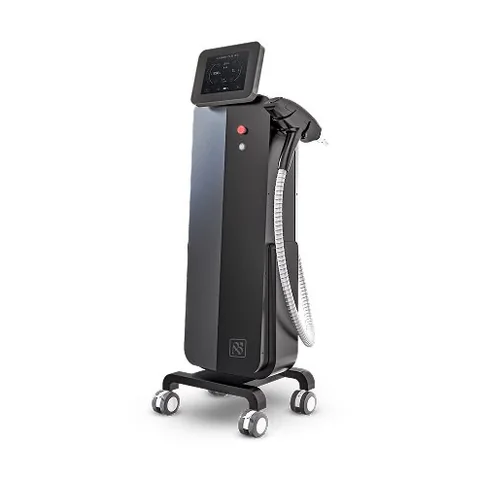
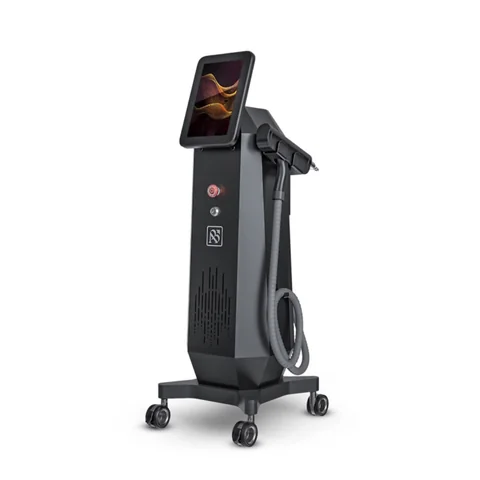
Poprawki Kariny z 30–31.10: galeria zdjęć produktu, SATELLITE w opakowaniach, laser, Glow Oil
- Okno produktu: galeria (kilka zdjęć z miniaturami; product-<id>-2, -3…).
  Drugie zdjęcie sztucznej skóry, nowe zdjęcia kartridży FLAT (pudełka i grafika
  igieł), 3 grafiki do Pigmentów Supernatural.
- Pędzel do brwi: warianty czarny / biały (zdjęcie zmienia się z wariantem).
- SATELLITE: tylko pełne opakowanie 20 szt. za 255 zł (Karina 31.10: „nie
  sprzedajemy kartridży na sztuki”).
- Laser: nowe zdjęcie i opis z 31.10, nazwa „Laser Q-Switch”.
- Glow Oil (3 zapachy): opisy i skład z podpisów zdjęć Kariny (PL/EN/RU).
- Zabiegi: 4. zdjęcie „Realne efekty” wymienione na zdjęcie od Kariny.
- Nowe zdjęcia w /Graphics (WhatsApp 30–31.10). Zakładka „Regulaminy” –
  po otrzymaniu dokumentów.

Changed region(s): [[0.2812, 0.0625, 0.6875, 0.9375]]

diff --git a/src/lib/media.js b/src/lib/media.js
@@ -156,8 +156,8 @@ export const PRODUCTS = {
   'product-doll-harley-quinn-6ml': { src: '/graphics/product-doll-harley-quinn-6ml.jpg', w: 1536, h: 1536, webp: { '480': '/graphics/product-doll-harley-quinn-6ml-480.webp', '960': '/graphics/product-doll-harley-quinn-6ml-960.webp', '1440': '/graphics/product-doll-harley-quinn-6ml-1440.webp', '1536': '/graphics/product-doll-harley-quinn-6ml.webp' } },
   'product-e5-dark-brown-6-ml-opium-light': { src: '/graphics/product-e5-dark-brown-6-ml-opium-light.jpg', w: 1536, h: 1536, webp: { '480': '/graphics/product-e5-dark-brown-6-ml-opium-light-480.webp', '960': '/graphics/product-e5-dark-brown-6-ml-opium-light-960.webp', '1440': '/graphics/product-e5-dark-brown-6-ml-opium-light-1440.webp', '1536': '/graphics/product-e5-dark-brown-6-ml-opium-light.webp' } },
   'product-glow-oil-coconut-chocolate': { src: '/graphics/product-glow-oil-coconut-chocolate.jpg', w: 1323, h: 1323, webp: { '480': '/graphics/product-glow-oil-coconut-chocolate-480.webp', '960': '/graphics/product-glow-oil-coconut-chocolate-960.webp', '1323': '/graphics/product-glow-oil-coconut-chocolate.webp' } },
-  'product-glow-oil-pineapple': { src: '/graphics/product-glow-oil-pineapple.jpg', w: 1292, h: 1292, webp: { '480': '/graphics/product-glow-oil-pineapple-480.webp', '960': '/graphics/product-glow-oil-pineapple-960.webp', '1292': '/graphics/product-glow-oil-pineapple.webp' } },
-  'product-glow-oil-strawberries': { src: '/graphics/product-glow-oil-strawberries.jpg', w: 1292, h: 1292, webp: { '480': '/graphics/product-glow-oil-strawberries-480.webp', '960': '/graphics/product-glow-oil-strawberries-960.webp', '1292': '/graphics/product-glow-oil-strawberries.webp' } },
+  'product-glow-oil-pineapple': { src: '/graphics/product-glow-oil-pineapple.jpg', w: 1326, h: 1326, webp: { '480': '/graphics/product-glow-oil-pineapple-480.webp', '960': '/graphics/product-glow-oil-pineapple-960.webp', '1326': '/graphics/product-glow-oil-pineapple.webp' } },
+  'product-glow-oil-strawberries': { src: '/graphics/product-glow-oil-strawberries.jpg', w: 1323, h: 1323, webp: { '480': '/graphics/product-glow-oil-strawberries-480.webp', '960': '/graphics/product-glow-oil-strawberries-960.webp', '1323': '/graphics/product-glow-oil-strawberries.webp' } },
   'product-gotham-harley-quinn-6ml': { src: '/graphics/product-gotham-harley-quinn-6ml.jpg', w: 1536, h: 1536, webp: { '480': '/graphics/product-gotham-harley-quinn-6ml-480.webp', '960': '/graphics/product-gotham-harley-quinn-6ml-960.webp', '1440': '/graphics/product-gotham-harley-quinn-6ml-1440.webp', '1536': '/graphics/product-gotham-harley-quinn-6ml.webp' } },
   'product-h7-dark-warm-brown-eyebrow-pigment-for-hair-strokes': { src: '/graphics/product-h7-dark-warm-brown-eyebrow-pigment-for-hair-strokes.jpg', w: 1536, h: 1536, webp: { '480': '/graphics/product-h7-dark-warm-brown-eyebrow-pigment-for-hair-strokes-480.webp', '960': '/graphics/product-h7-dark-warm-brown-eyebrow-pigment-for-hair-strokes-960.webp', '1440': '/graphics/product-h7-dark-warm-brown-eyebrow-pigment-for-hair-strokes-1440.webp', '1536': '/graphics/product-h7-dark-warm-brown-eyebrow-pigment-for-hair-strokes.webp' } },
   'product-hairstrokes-h6-dark-brown': { src: '/graphics/product-hairstrokes-h6-dark-brown.jpg', w: 1536, h: 1536, webp: { '480': '/graphics/product-hairstrokes-h6-dark-brown-480.webp', '960': '/graphics/product-hairstrokes-h6-dark-brown-960.webp', '1440': '/graphics/product-hairstrokes-h6-dark-brown-1440.webp', '1536': '/graphics/product-hairstrokes-h6-dark-brown.webp' } },
@@ -166,20 +166,26 @@ export const PRODUCTS = {
   'product-ice-gel-lips': { src: '/graphics/product-ice-gel-lips.jpg', w: 1536, h: 1536, webp: { '480': '/graphics/product-ice-gel-lips-480.webp', '960': '/graphics/product-ice-gel-lips-960.webp', '1440': '/graphics/product-ice-gel-lips-1440.webp', '1536': '/graphics/product-ice-gel-lips.webp' } },
   'product-ice-ltb-gel': { src: '/graphics/product-ice-ltb-gel.jpg', w: 1054, h: 1054, webp: { '480': '/graphics/product-ice-ltb-gel-480.webp', '960': '/graphics/product-ice-ltb-gel-960.webp', '1054': '/graphics/product-ice-ltb-gel.webp' } },
   'product-joker-harley-quinn-6ml': { src: '/graphics/product-joker-harley-quinn-6ml.jpg', w: 1536, h: 1536, webp: { '480': '/graphics/product-joker-harley-quinn-6ml-480.webp', '960': '/graphics/product-joker-harley-quinn-6ml-960.webp', '1440': '/graphics/product-joker-harley-quinn-6ml-1440.webp', '1536': '/graphics/product-joker-harley-quinn-6ml.webp' } },
-  'product-kartridze-flat-supernatural': { src: '/graphics/product-kartridze-flat-supernatural.jpg', w: 930, h: 930, webp: { '480': '/graphics/product-kartridze-flat-supernatural-480.webp', '930': '/graphics/product-kartridze-flat-supernatural.webp' } },
+  'product-kartridze-flat-supernatural': { src: '/graphics/product-kartridze-flat-supernatural.jpg', w: 1291, h: 1291, webp: { '480': '/graphics/product-kartridze-flat-supernatural-480.webp', '960': '/graphics/product-kartridze-flat-supernatural-960.webp', '1291': '/graphics/product-kartridze-flat-supernatural.webp' } },
+  'product-kartridze-flat-supernatural-2': { src: '/graphics/product-kartridze-flat-supernatural-2.jpg', w: 1024, h: 768, webp: { '480': '/graphics/product-kartridze-flat-supernatural-2-480.webp', '960': '/graphics/product-kartridze-flat-supernatural-2-960.webp', '1024': '/graphics/product-kartridze-flat-supernatural-2.webp' } },
   'product-kartridze-satellite': { src: '/graphics/product-kartridze-satellite.jpg', w: 1143, h: 1297, webp: { '480': '/graphics/product-kartridze-satellite-480.webp', '960': '/graphics/product-kartridze-satellite-960.webp', '1143': '/graphics/product-kartridze-satellite.webp' } },
   'product-kredka-brazowa': { src: '/graphics/product-kredka-brazowa.jpg', w: 320, h: 860, webp: { '320': '/graphics/product-kredka-brazowa.webp', '480': '/graphics/product-kredka-brazowa-480.webp' } },
   'product-kredka-czarna': { src: '/graphics/product-kredka-czarna.jpg', w: 408, h: 860, webp: { '408': '/graphics/product-kredka-czarna.webp', '480': '/graphics/product-kredka-czarna-480.webp' } },
   'product-kredka-czerwona': { src: '/graphics/product-kredka-czerwona.jpg', w: 320, h: 860, webp: { '320': '/graphics/product-kredka-czerwona.webp', '480': '/graphics/product-kredka-czerwona-480.webp' } },
   'product-lampa-pierscieniowa': { src: '/graphics/product-lampa-pierscieniowa.jpg', w: 1372, h: 1920, webp: { '480': '/graphics/product-lampa-pierscieniowa-480.webp', '960': '/graphics/product-lampa-pierscieniowa-960.webp', '1372': '/graphics/product-lampa-pierscieniowa.webp' } },
-  'product-laser-q-switch-ultra': { src: '/graphics/product-laser-q-switch-ultra.jpg', w: 494, h: 494, webp: { '480': '/graphics/product-laser-q-switch-ultra-480.webp', '494': '/graphics/product-laser-q-switch-ultra.webp' } },
+  'product-laser-q-switch-ultra': { src: '/graphics/product-laser-q-switch-ultra.jpg', w: 1008, h: 1008, webp: { '480': '/graphics/product-laser-q-switch-ultra-480.webp', '960': '/graphics/product-laser-q-switch-ultra-960.webp', '1008': '/graphics/product-laser-q-switch-ultra.webp' } },
   'product-maria-magdalena-6-ml-paradise': { src: '/graphics/product-maria-magdalena-6-ml-paradise.jpg', w: 1280, h: 1280, webp: { '480': '/graphics/product-maria-magdalena-6-ml-paradise-480.webp', '960': '/graphics/product-maria-magdalena-6-ml-paradise-960.webp', '1280': '/graphics/product-maria-magdalena-6-ml-paradise.webp' } },
   'product-pedzel-do-brwi': { src: '/graphics/product-pedzel-do-brwi.jpg', w: 1158, h: 1158, webp: { '480': '/graphics/product-pedzel-do-brwi-480.webp', '960': '/graphics/product-pedzel-do-brwi-960.webp', '1158': '/graphics/product-pedzel-do-brwi.webp' } },
+  'product-pedzel-do-brwi-2': { src: '/graphics/product-pedzel-do-brwi-2.jpg', w: 939, h: 939, webp: { '480': '/graphics/product-pedzel-do-brwi-2-480.webp', '939': '/graphics/product-pedzel-do-brwi-2.webp' } },
   'product-pigmenty-supernatural': { src: '/graphics/product-pigmenty-supernatural.jpg', w: 1713, h: 1713, webp: { '480': '/graphics/product-pigmenty-supernatural-480.webp', '960': '/graphics/product-pigmenty-supernatural-960.webp', '1440': '/graphics/product-pigmenty-supernatural-1440.webp', '1713': '/graphics/product-pigmenty-supernatural.webp' } },
+  'product-pigmenty-supernatural-2': { src: '/graphics/product-pigmenty-supernatural-2.jpg', w: 1600, h: 1131, webp: { '480': '/graphics/product-pigmenty-supernatural-2-480.webp', '960': '/graphics/product-pigmenty-supernatural-2-960.webp', '1440': '/graphics/product-pigmenty-supernatural-2-1440.webp', '1600': '/graphics/product-pigmenty-supernatural-2.webp' } },
+  'product-pigmenty-supernatural-3': { src: '/graphics/product-pigmenty-supernatural-3.jpg', w: 1600, h: 1131, webp: { '480': '/graphics/product-pigmenty-supernatural-3-480.webp', '960': '/graphics/product-pigmenty-supernatural-3-960.webp', '1440': '/graphics/product-pigmenty-supernatural-3-1440.webp', '1600': '/graphics/product-pigmenty-supernatural-3.webp' } },
+  'product-pigmenty-supernatural-4': { src: '/graphics/product-pigmenty-supernatural-4.jpg', w: 1600, h: 1131, webp: { '480': '/graphics/product-pigmenty-supernatural-4-480.webp', '960': '/graphics/product-pigmenty-supernatural-4-960.webp', '1440': '/graphics/product-pigmenty-supernatural-4-1440.webp', '1600': '/graphics/product-pigmenty-supernatural-4.webp' } },
   'product-pilot-czerwony': { src: '/graphics/product-pilot-czerwony.jpg', w: 902, h: 902, webp: { '480': '/graphics/product-pilot-czerwony-480.webp', '902': '/graphics/product-pilot-czerwony.webp' } },
   'product-set-harley-quinn-do-ust': { src: '/graphics/product-set-harley-quinn-do-ust.jpg', w: 774, h: 774, webp: { '480': '/graphics/product-set-harley-quinn-do-ust-480.webp', '774': '/graphics/product-set-harley-quinn-do-ust.webp' } },
   'product-set-paradise-do-ust': { src: '/graphics/product-set-paradise-do-ust.jpg', w: 948, h: 948, webp: { '480': '/graphics/product-set-paradise-do-ust-480.webp', '948': '/graphics/product-set-paradise-do-ust.webp' } },
-  'product-sztuczna-skorka-do-cwiczen': { src: '/graphics/product-sztuczna-skorka-do-cwiczen.jpg', w: 1023, h: 1023, webp: { '480': '/graphics/product-sztuczna-skorka-do-cwiczen-480.webp', '960': '/graphics/product-sztuczna-skorka-do-cwiczen-960.webp', '1023': '/graphics/product-sztuczna-skorka-do-cwiczen.webp' } },
+  'product-sztuczna-skorka-do-cwiczen': { src: '/graphics/product-sztuczna-skorka-do-cwiczen.jpg', w: 1200, h: 1200, webp: { '480': '/graphics/product-sztuczna-skorka-do-cwiczen-480.webp', '960': '/graphics/product-sztuczna-skorka-do-cwiczen-960.webp', '1200': '/graphics/product-sztuczna-skorka-do-cwiczen.webp' } },
+  'product-sztuczna-skorka-do-cwiczen-2': { src: '/graphics/product-sztuczna-skorka-do-cwiczen-2.jpg', w: 1164, h: 1164, webp: { '480': '/graphics/product-sztuczna-skorka-do-cwiczen-2-480.webp', '960': '/graphics/product-sztuczna-skorka-do-cwiczen-2-960.webp', '1164': '/graphics/product-sztuczna-skorka-do-cwiczen-2.webp' } },
 };
 
 /** Prace z 29.09.2026 – kadry przycięte bez doklejonej butelki (scripts/przygotuj-grafiki.py,
@@ -250,6 +256,7 @@ export const BY_NAME = {
   'course-06': { src: '/graphics/course-06.jpg', w: 586, h: 1040, webp: { '480': '/graphics/course-06-480.webp', '586': '/graphics/course-06.webp' } },
   'course-07': { src: '/graphics/course-07.jpg', w: 586, h: 1040, webp: { '480': '/graphics/course-07-480.webp', '586': '/graphics/course-07.webp' } },
   'course-08': { src: '/graphics/course-08.jpg', w: 1086, h: 1920, webp: { '480': '/graphics/course-08-480.webp', '960': '/graphics/course-08-960.webp', '1086': '/graphics/course-08.webp' } },
+  'efekt-snb-01': { src: '/graphics/efekt-snb-01.jpg', w: 1200, h: 1600, webp: { '480': '/graphics/efekt-snb-01-480.webp', '960': '/graphics/efekt-snb-01-960.webp', '1200': '/graphics/efekt-snb-01.webp' } },
   'kolaz-01': { src: '/graphics/kolaz-01.jpg', w: 1200, h: 1600, webp: { '480': '/graphics/kolaz-01-480.webp', '960': '/graphics/kolaz-01-960.webp', '1200': '/graphics/kolaz-01.webp' } },
   'kolaz-02': { src: '/graphics/kolaz-02.jpg', w: 1200, h: 1600, webp: { '480': '/graphics/kolaz-02-480.webp', '960': '/graphics/kolaz-02-960.webp', '1200': '/graphics/kolaz-02.webp' } },
   'kolaz-03': { src: '/graphics/kolaz-03.jpg', w: 1200, h: 1600, webp: { '480': '/graphics/kolaz-03-480.webp', '960': '/graphics/kolaz-03-960.webp', '1200': '/graphics/kolaz-03.webp' } },
@@ -319,8 +326,8 @@ export const BY_NAME = {
   'product-doll-harley-quinn-6ml': { src: '/graphics/product-doll-harley-quinn-6ml.jpg', w: 1536, h: 1536, webp: { '480': '/graphics/product-doll-harley-quinn-6ml-480.webp', '960': '/graphics/product-doll-harley-quinn-6ml-960.webp', '1440': '/graphics/product-doll-harley-quinn-6ml-1440.webp', '1536': '/graphics/product-doll-harley-quinn-6ml.webp' } },
   'product-e5-dark-brown-6-ml-opium-light': { src: '/graphics/product-e5-dark-brown-6-ml-opium-light.jpg', w: 1536, h: 1536, webp: { '480': '/graphics/product-e5-dark-brown-6-ml-opium-light-480.webp', '960': '/graphics/product-e5-dark-brown-6-ml-opium-light-960.webp', '1440': '/graphics/product-e5-dark-brown-6-ml-opium-light-1440.webp', '1536': '/graphics/product-e5-dark-brown-6-ml-opium-light.webp' } },
   'product-glow-oil-coconut-chocolate': { src: '/graphics/product-glow-oil-coconut-chocolate.jpg', w: 1323, h: 1323, webp: { '480': '/graphics/product-glow-oil-coconut-chocolate-480.webp', '960': '/graphics/product-glow-oil-coconut-chocolate-960.webp', '1323': '/graphics/product-glow-oil-coconut-chocolate.webp' } },
-  'product-glow-oil-pineapple': { src: '/graphics/product-glow-oil-pineapple.jpg', w: 1292, h: 1292, webp: { '480': '/graphics/product-glow-oil-pineapple-480.webp', '960': '/graphics/product-glow-oil-pineapple-960.webp', '1292': '/graphics/product-glow-oil-pineapple.webp' } },
-  'product-glow-oil-strawberries': { src: '/graphics/product-glow-oil-strawberries.jpg', w: 1292, h: 1292, webp: { '480': '/graphics/product-glow-oil-strawberries-480.webp', '960': '/graphics/product-glow-oil-strawberries-960.webp', '1292': '/graphics/product-glow-oil-strawberries.webp' } },
+  'product-glow-oil-pineapple': { src: '/graphics/product-glow-oil-pineapple.jpg', w: 1326, h: 1326, webp: { '480': '/graphics/product-glow-oil-pineapple-480.webp', '960': '/graphics/product-glow-oil-pineapple-960.webp', '1326': '/graphics/product-glow-oil-pineapple.webp' } },
+  'product-glow-oil-strawberries': { src: '/graphics/product-glow-oil-strawberries.jpg', w: 1323, h: 1323, webp: { '480': '/graphics/product-glow-oil-strawberries-480.webp', '960': '/graphics/product-glow-oil-strawberries-960.webp', '1323': '/graphics/product-glow-oil-strawberries.webp' } },
   'product-gotham-harley-quinn-6ml': { src: '/graphics/product-gotham-harley-quinn-6ml.jpg', w: 1536, h: 1536, webp: { '480': '/graphics/product-gotham-harley-quinn-6ml-480.webp', '960': '/graphics/product-gotham-harley-quinn-6ml-960.webp', '1440': '/graphics/product-gotham-harley-quinn-6ml-1440.webp', '1536': '/graphics/product-gotham-harley-quinn-6ml.webp' } },
   'product-h7-dark-warm-brown-eyebrow-pigment-for-hair-strokes': { src: '/graphics/product-h7-dark-warm-brown-eyebrow-pigment-for-hair-strokes.jpg', w: 1536, h: 1536, webp: { '480': '/graphics/product-h7-dark-warm-brown-eyebrow-pigment-for-hair-strokes-480.webp', '960': '/graphics/product-h7-dark-warm-brown-eyebrow-pigment-for-hair-strokes-960.webp', '1440': '/graphics/product-h7-dark-warm-brown-eyebrow-pigment-for-hair-strokes-1440.webp', '1536': '/graphics/product-h7-dark-warm-brown-eyebrow-pigment-for-hair-strokes.webp' } },
   'product-hairstrokes-h6-dark-brown': { src: '/graphics/product-hairstrokes-h6-dark-brown.jpg', w: 1536, h: 1536, webp: { '480': '/graphics/product-hairstrokes-h6-dark-brown-480.webp', '960': '/graphics/product-hairstrokes-h6-dark-brown-960.webp', '1440': '/graphics/product-hairstrokes-h6-dark-brown-1440.webp', '1536': '/graphics/product-hairstrokes-h6-dark-brown.webp' } },
@@ -329,20 +336,26 @@ export const BY_NAME = {
   'product-ice-gel-lips': { src: '/graphics/product-ice-gel-lips.jpg', w: 1536, h: 1536, webp: { '480': '/graphics/product-ice-gel-lips-480.webp', '960': '/graphics/product-ice-gel-lips-960.webp', '1440': '/graphics/product-ice-gel-lips-1440.webp', '1536': '/graphics/product-ice-gel-lips.webp' } },
   'product-ice-ltb-gel': { src: '/graphics/product-ice-ltb-gel.jpg', w: 1054, h: 1054, webp: { '480': '/graphics/product-ice-ltb-gel-480.webp', '960': '/graphics/product-ice-ltb-gel-960.webp', '1054': '/graphics/product-ice-ltb-gel.webp' } },
   'product-joker-harley-quinn-6ml': { src: '/graphics/product-joker-harley-quinn-6ml.jpg', w: 1536, h: 1536, webp: { '480': '/graphics/product-joker-harley-quinn-6ml-480.webp', '960': '/graphics/product-joker-harley-quinn-6ml-960.webp', '1440': '/graphics/product-joker-harley-quinn-6ml-1440.webp', '1536': '/graphics/product-joker-harley-quinn-6ml.webp' } },
-  'product-kartridze-flat-supernatural': { src: '/graphics/product-kartridze-flat-supernatural.jpg', w: 930, h: 930, webp: { '480': '/graphics/product-kartridze-flat-supernatural-480.webp', '930': '/graphics/product-kartridze-flat-supernatural.webp' } },
+  'product-kartridze-flat-supernatural': { src: '/graphics/product-kartridze-flat-supernatural.jpg', w: 1291, h: 1291, webp: { '480': '/graphics/product-kartridze-flat-supernatural-480.webp', '960': '/graphics/product-kartridze-flat-supernatural-960.webp', '1291': '/graphics/product-kartridze-flat-supernatural.webp' } },
+  'product-kartridze-flat-supernatural-2': { src: '/graphics/product-kartridze-flat-supernatural-2.jpg', w: 1024, h: 768, webp: { '480': '/graphics/product-kartridze-flat-supernatural-2-480.webp', '960': '/graphics/product-kartridze-flat-supernatural-2-960.webp', '1024': '/graphics/product-kartridze-flat-supernatural-2.webp' } },
   'product-kartridze-satellite': { src: '/graphics/product-kartridze-satellite.jpg', w: 1143, h: 1297, webp: { '480': '/graphics/product-kartridze-satellite-480.webp', '960': '/graphics/product-kartridze-satellite-960.webp', '1143': '/graphics/product-kartridze-satellite.webp' } },
   'product-kredka-brazowa': { src: '/graphics/product-kredka-brazowa.jpg', w: 320, h: 860, webp: { '320': '/graphics/product-kredka-brazowa.webp', '480': '/graphics/product-kredka-brazowa-480.webp' } },
   'product-kredka-czarna': { src: '/graphics/product-kredka-czarna.jpg', w: 408, h: 860, webp: { '408': '/graphics/product-kredka-czarna.webp', '480': '/graphics/product-kredka-czarna-480.webp' } },
   'product-kredka-czerwona': { src: '/graphics/product-kredka-czerwona.jpg', w: 320, h: 860, webp: { '320': '/graphics/product-kredka-czerwona.webp', '480': '/graphics/product-kredka-czerwona-480.webp' } },
   'product-lampa-pierscieniowa': { src: '/graphics/product-lampa-pierscieniowa.jpg', w: 1372, h: 1920, webp: { '480': '/graphics/product-lampa-pierscieniowa-480.webp', '960': '/graphics/product-lampa-pierscieniowa-960.webp', '1372': '/graphics/product-lampa-pierscieniowa.webp' } },
-  'product-laser-q-switch-ultra': { src: '/graphics/product-laser-q-switch-ultra.jpg', w: 494, h: 494, webp: { '480': '/graphics/product-laser-q-switch-ultra-480.webp', '494': '/graphics/product-laser-q-switch-ultra.webp' } },
+  'product-laser-q-switch-ultra': { src: '/graphics/product-laser-q-switch-ultra.jpg', w: 1008, h: 1008, webp: { '480': '/graphics/product-laser-q-switch-ultra-480.webp', '960': '/graphics/product-laser-q-switch-ultra-960.webp', '1008': '/graphics/product-laser-q-switch-ultra.webp' } },
   'product-maria-magdalena-6-ml-paradise': { src: '/graphics/product-maria-magdalena-6-ml-paradise.jpg', w: 1280, h: 1280, webp: { '480': '/graphics/product-maria-magdalena-6-ml-paradise-480.webp', '960': '/graphics/product-maria-magdalena-6-ml-paradise-960.webp', '1280': '/graphics/product-maria-magdalena-6-ml-paradise.webp' } },
   'product-pedzel-do-brwi': { src: '/graphics/product-pedzel-do-brwi.jpg', w: 1158, h: 1158, webp: { '480': '/graphics/product-pedzel-do-brwi-480.webp', '960': '/graphics/product-pedzel-do-brwi-960.webp', '1158': '/graphics/product-pedzel-do-brwi.webp' } },
+  'product-pedzel-do-brwi-2': { src: '/graphics/product-pedzel-do-brwi-2.jpg', w: 939, h: 939, webp: { '480': '/graphics/product-pedzel-do-brwi-2-480.webp', '939': '/graphics/product-pedzel-do-brwi-2.webp' } },
   'product-pigmenty-supernatural': { src: '/graphics/product-pigmenty-supernatural.jpg', w: 1713, h: 1713, webp: { '480': '/graphics/product-pigmenty-supernatural-480.webp', '960': '/graphics/product-pigmenty-supernatural-960.webp', '1440': '/graphics/product-pigmenty-supernatural-1440.webp', '1713': '/graphics/product-pigmenty-supernatural.webp' } },
+  'product-pigmenty-supernatural-2': { src: '/graphics/product-pigmenty-supernatural-2.jpg', w: 1600, h: 1131, webp: { '480': '/graphics/product-pigmenty-supernatural-2-480.webp', '960': '/graphics/product-pigmenty-supernatural-2-960.webp', '1440': '/graphics/product-pigmenty-supernatural-2-1440.webp', '1600': '/graphics/product-pigmenty-supernatural-2.webp' } },
+  'product-pigmenty-supernatural-3': { src: '/graphics/product-pigmenty-supernatural-3.jpg', w: 1600, h: 1131, webp: { '480': '/graphics/product-pigmenty-supernatural-3-480.webp', '960': '/graphics/product-pigmenty-supernatural-3-960.webp', '1440': '/graphics/product-pigmenty-supernatural-3-1440.webp', '1600': '/graphics/product-pigmenty-supernatural-3.webp' } },
+  'product-pigmenty-supernatural-4': { src: '/graphics/product-pigmenty-supernatural-4.jpg', w: 1600, h: 1131, webp: { '480': '/graphics/product-pigmenty-supernatural-4-480.webp', '960': '/graphics/product-pigmenty-supernatural-4-960.webp', '1440': '/graphics/product-pigmenty-supernatural-4-1440.webp', '1600': '/graphics/product-pigmenty-supernatural-4.webp' } },
   'product-pilot-czerwony': { src: '/graphics/product-pilot-czerwony.jpg', w: 902, h: 902, webp: { '480': '/graphics/product-pilot-czerwony-480.webp', '902': '/graphics/product-pilot-czerwony.webp' } },
   'product-set-harley-quinn-do-ust': { src: '/graphics/product-set-harley-quinn-do-ust.jpg', w: 774, h: 774, webp: { '480': '/graphics/product-set-harley-quinn-do-ust-480.webp', '774': '/graphics/product-set-harley-quinn-do-ust.webp' } },
   'product-set-paradise-do-ust': { src: '/graphics/product-set-paradise-do-ust.jpg', w: 948, h: 948, webp: { '480': '/graphics/product-set-paradise-do-ust-480.webp', '948': '/graphics/product-set-paradise-do-ust.webp' } },
-  'product-sztuczna-skorka-do-cwiczen': { src: '/graphics/product-sztuczna-skorka-do-cwiczen.jpg', w: 1023, h: 1023, webp: { '480': '/graphics/product-sztuczna-skorka-do-cwiczen-480.webp', '960': '/graphics/product-sztuczna-skorka-do-cwiczen-960.webp', '1023': '/graphics/product-sztuczna-skorka-do-cwiczen.webp' } },
+  'product-sztuczna-skorka-do-cwiczen': { src: '/graphics/product-sztuczna-skorka-do-cwiczen.jpg', w: 1200, h: 1200, webp: { '480': '/graphics/product-sztuczna-skorka-do-cwiczen-480.webp', '960': '/graphics/product-sztuczna-skorka-do-cwiczen-960.webp', '1200': '/graphics/product-sztuczna-skorka-do-cwiczen.webp' } },
+  'product-sztuczna-skorka-do-cwiczen-2': { src: '/graphics/product-sztuczna-skorka-do-cwiczen-2.jpg', w: 1164, h: 1164, webp: { '480': '/graphics/product-sztuczna-skorka-do-cwiczen-2-480.webp', '960': '/graphics/product-sztuczna-skorka-do-cwiczen-2-960.webp', '1164': '/graphics/product-sztuczna-skorka-do-cwiczen-2.webp' } },
   'studio-01': { src: '/graphics/studio-01.jpg', w: 1068, h: 1600, webp: { '480': '/graphics/studio-01-480.webp', '960': '/graphics/studio-01-960.webp', '1068': '/graphics/studio-01.webp' } },
   'studio-02': { src: '/graphics/studio-02.jpg', w: 1068, h: 1600, webp: { '480': '/graphics/studio-02-480.webp', '960': '/graphics/studio-02-960.webp', '1068': '/graphics/studio-02.webp' } },
   'studio-03': { src: '/graphics/studio-03.jpg', w: 1068, h: 1600, webp: { '480': '/graphics/studio-03-480.webp', '960': '/graphics/studio-03-960.webp', '1068': '/graphics/studio-03.webp' } },

diff --git a/src/components/pigments/ProductDialog.jsx b/src/components/pigments/ProductDialog.jsx
@@ -27,7 +27,7 @@ import {
 } from '@/components/ui/dialog';
 import { ArrowLink } from '@/components/as/Primitives';
 import { findVariant, formatCapacity, formatPrice, formatSyncedDate, productById } from '@/lib/pigments';
-import { productPhoto } from '@/lib/productPhotos';
+import { productPhotos } from '@/lib/productPhotos';
 import { SHOP_PRICE_DATE, isShopProduct } from '@/lib/shop';
 import Lens from '@/components/magicui/Lens';
 import PresaleBadge from '@/components/magicui/PresaleBadge';
@@ -65,6 +65,46 @@ const photoAlt = (product) =>
     : product.isSet
       ? `${product.name} – opakowanie i butelki zestawu`
       : `${product.name} – butelka i opakowanie`;
+
+/* Galeria (Karina 30.10.2026): kilka zdjęć produktu – duże zdjęcie z lupą i rząd miniatur
+   (przyciski, aria-pressed). Jedno zdjęcie – bez miniatur, jak dotąd. */
+function PhotoGallery({ product, photos, index, onSelect, note }) {
+  const photo = photos[index] ?? photos[0];
+  const total = photos.length;
+  const alt = total > 1 ? `${photoAlt(product)} – zdjęcie ${photo.n} z ${total}` : photoAlt(product);
+  return (
+    <div className="mt-6">
+      {/* Magic UI „lens”: lupa pod kursorem myszy – napisy na opakowaniu do przeczytania */}
+      <Lens zoom={2.2} size={170}>
+        <ProductPhoto product={product} photo={photo} ratio="4 / 3" sizes={PHOTO_SIZES} alt={alt} className={PHOTO_FIELD} />
+      </Lens>
+      {total > 1 && (
+        <ul className="mt-3 flex flex-wrap gap-2" aria-label="Zdjęcia produktu">
+          {photos.map((ph, i) => (
+            <li key={ph.key}>
+              <button
+                type="button"
+                onClick={() => onSelect(i)}
+                aria-pressed={i === index}
+                aria-label={`Zdjęcie ${ph.n} z ${total}`}
+                className={cn(
+                  'block w-14 border transition-colors sm:w-16',
+                  i === index ? 'border-ink' : 'border-ink/15 hover:border-ink/50'
+                )}
+              >
+                <ProductPhoto product={product} photo={ph} ratio="1 / 1" sizes="64px" />
+              </button>
+            </li>
+          ))}
+        </ul>
+      )}
+      {note && <p className="as-caption mt-2 max-w-none">{note}</p>}
+    </div>
+  );
+}
+
+/* Zdjęcie wariantu (pędzel czarny / biały): `photo` w wariancie = numer zdjęcia w galerii. */
+const photoIndexFor = (photos, variant) => Math.max(0, photos.findIndex((ph) => ph.n === (variant?.photo ?? 1)));
 
 /* Wybór wariantu po osiach (konfiguracja igły, opakowanie) – segmenty jak VariantPicker,
    pod nimi opis wybranej konfiguracji (product.notes, słowa Kariny z 29.09.2026) i cena. */
@@ -122,7 +162,9 @@ function Body({ product, onAdd, onClose, qty, onShowOrder }) {
   /* produkt sklepu bez ceny od klientki – „cena na zapytanie”, bez dodawania do listy */
   const onRequest = Boolean(product.onRequest);
   const canAdd = Boolean(!onRequest && product.inStock && variant?.inStock);
-  const hasPhoto = Boolean(productPhoto(product.id));
+  const photos = productPhotos(product.id);
+  const hasPhoto = photos.length > 0;
+  const [photoIdx, setPhotoIdx] = useState(() => photoIndexFor(photos, findVariant(product, defaultLabel(product))));
   /* produkt sklepu (/sklep): bez stref i próbki koloru, data cen z danych sklepu */
   const shop = isShopProduct(product);
   /* cena od klientki (clientPrice, np. zestaw z listy Kariny) – data jej wiadomości, jak w sklepie */
@@ -145,7 +187,7 @@ function Body({ product, onAdd, onClose, qty, onShowOrder }) {
         {product.presale && <PresaleBadge className="w-fit">Sprzedaż przedpremierowa</PresaleBadge>}
         <DialogTitle>{displayName(product.name)}</DialogTitle>
         {shop ? (
-          /* sklep: warianty („1 szt. · 20 szt.”) albo pojemność; bez nich – opis tylko dla czytnika
+          /* sklep: warianty (opakowanie „20 szt.”) albo pojemność; bez nich – opis tylko dla czytnika
              (kategoria stoi już nad nazwą) */
           (() => {
             const variants = axes
@@ -165,19 +207,13 @@ function Body({ product, onAdd, onClose, qty, onShowOrder }) {
           tło znika w kremie) albo, bez zdjęcia, pasek próbki jak dotąd – pusty duży kadr
           tylko wydłużałby panel */}
       {hasPhoto ? (
-        <div className="mt-6">
-          {/* Magic UI „lens”: lupa pod kursorem myszy – napisy na opakowaniu do przeczytania */}
-          <Lens zoom={2.2} size={170}>
-            <ProductPhoto
-              product={product}
-              ratio="4 / 3"
-              sizes={PHOTO_SIZES}
-              alt={photoAlt(product)}
-              className={PHOTO_FIELD}
-            />
-          </Lens>
-          {!shop && <p className="as-caption mt-2 max-w-none">Kolor na zdjęciu i na ekranie może różnić się od pigmentu.</p>}
-        </div>
+        <PhotoGallery
+          product={product}
+          photos={photos}
+          index={photoIdx}
+          onSelect={setPhotoIdx}
+          note={shop ? null : 'Kolor na zdjęciu i na ekranie może różnić się od pigmentu.'}
+        />
       ) : (
         !product.isSet && !shop && (
           <div className="mt-6">
@@ -211,6 +247,7 @@ function Body({ product, onAdd, onClose, qty, onShowOrder }) {
             onChange={(l) => {
               setLabel(l);
               setAdded(false);
+              if (photos.length > 1) setPhotoIdx(photoIndexFor(photos, findVariant(product, l)));
             }}
             name={`dlg-cap-${product.id}`}
             showPrice

diff --git a/src/lib/productPhotos.js b/src/lib/productPhotos.js
@@ -16,9 +16,32 @@ import { PRODUCTS } from './media';
 /* Packshoty, których tło nie jest białe – mnożenie nic by nie dało (czerń zostaje czernią). */
 const DARK_BACKGROUND = new Set(['set-harley-quinn-do-ust', 'ice-gel-ltb-2w1']);
 
-/** { image, blend } dla produktu o danym `id` albo null, gdy zdjęcia nie ma. */
+/* Dodatkowe zdjęcia, które nie są packshotem na białym tle (grafiki z własnym tłem, kolaże –
+   Karina 30.10.2026): bez mnożenia, na kremowym polu. */
+const PLAIN = new Set([
+  'kartridze-flat-supernatural-2',
+  'pigmenty-supernatural-2',
+  'pigmenty-supernatural-3',
+  'pigmenty-supernatural-4',
+]);
+
+/** { image, blend, dark } dla produktu o danym `id` albo null, gdy zdjęcia nie ma. */
 export function productPhoto(id) {
   const image = PRODUCTS[`product-${id}`];
   if (!image) return null;
-  return { image, blend: !DARK_BACKGROUND.has(id) };
+  const dark = DARK_BACKGROUND.has(id);
+  return { image, blend: !dark && !PLAIN.has(id), dark };
+}
+
+/**
+ * Wszystkie zdjęcia produktu do galerii w oknie: główne (product-<id>) i kolejne
+ * product-<id>-2, -3… (Karina 30.10.2026: drugie zdjęcie skóry, kartridży, pędzla w innym
+ * kolorze, grafiki Pigmentów Supernatural). `key` – id zdjęcia (wariant wskazuje je numerem).
+ */
+export function productPhotos(id) {
+  const main = productPhoto(id);
+  if (!main) return [];
+  const out = [{ key: id, n: 1, ...main }];
+  for (let n = 2; PRODUCTS[`product-${id}-${n}`]; n += 1) out.push({ key: `${id}-${n}`, n, ...productPhoto(`${id}-${n}`) });
+  return out;
 }

diff --git a/src/views/Treatments.jsx b/src/views/Treatments.jsx
@@ -208,12 +208,13 @@ const HERO_FACTS = [
 /* ------------------------------------------------------------------ */
 
 /* Filip 30.10.2026: „W sekcji Realne efekty, nie renderowane mają być supernatural brows” –
-   cztery prace Super Natural Brows (zdjęcia z podpisem techniki w /Graphics i od Kariny). */
+   cztery prace Super Natural Brows (zdjęcia z podpisem techniki w /Graphics i od Kariny);
+   czwarte – Karina 30.10.2026: „Poproszę to zdjęcie zmienić na:”. */
 const RESULTS = [
   { macro: MACROS.snbBrows10, alt: 'Brwi po makijażu permanentnym techniką Super Natural Brows – zbliżenie' },
   { macro: MACROS.snb01, alt: 'Brew i oko po zabiegu Super Natural Brows – zbliżenie', scale: 1.45, origin: '62% 45%' },
   { macro: MACROS.snbBrows13, alt: 'Brwi wykonane techniką Super Natural Brows – widoczne pojedyncze włoski' },
-  { macro: MACROS.techSnb, alt: 'Brew po makijażu permanentnym Super Natural Brows – efekt po zabiegu' },
+  { macro: MACROS.snbEfekt01, alt: 'Brew po makijażu permanentnym Super Natural Brows – efekt po zabiegu' },
 ].map(({ macro, alt, scale, origin }) => ({ image: macro.image, position: macro.position, alt, scale, origin }));
 
 /* D6 (Z15): źródła nie znają „konsultacji” jako osobnej usługi – krok 01 to rysunek

diff --git a/src/components/pigments/parts.jsx b/src/components/pigments/parts.jsx
@@ -125,8 +125,9 @@ export function Swatch({ color, className }) {
  * rozmaz koloru dalej dochodzi do lewej krawędzi pola, więc nie wygląda na ucięty,
  * a butelka i pudełko nie dotykają krawędzi kafla (spokojniejszy rytm siatki).
  */
-export function ProductPhoto({ product, ratio = '1 / 1', sizes, alt = '', className, inset = false }) {
-  const photo = productPhoto(product.id);
+export function ProductPhoto({ product, photo: chosen, ratio = '1 / 1', sizes, alt = '', className, inset = false }) {
+  /* `photo` – zdjęcie z galerii (productPhotos); bez niego – główne zdjęcie produktu */
+  const photo = chosen ?? productPhoto(product.id);
   if (!photo) return null;
   return (
     <Figure
@@ -135,7 +136,7 @@ export function ProductPhoto({ product, ratio = '1 / 1', sizes, alt = '', classN
       ratio={ratio}
       sizes={sizes}
       zoom={false}
-      className={cn(photo.blend ? '[&_.as-media]:bg-cream-100' : '[&_.as-media]:bg-black', className)}
+      className={cn(photo.dark ? '[&_.as-media]:bg-black' : '[&_.as-media]:bg-cream-100', className)}
       imgClassName={cn('!object-contain', photo.blend && 'mix-blend-multiply', inset && photo.blend && 'py-[9%] pr-[9%] !object-left')}
     />
   );

diff --git a/src/lib/roles.js b/src/lib/roles.js
@@ -152,6 +152,8 @@ export const MACROS = {
   /* /uslugi 03 – „Realne efekty” tylko Super Natural Brows (Filip 30.10.2026) */
   snbBrows10: { image: pick('brows-10-p1'), ratio: '1 / 1', position: '50% 40%', caption: 'Super Natural Brows' },
   snbBrows13: { image: pick('brows-13-p3'), ratio: '1 / 1', position: '64% 50%', caption: 'Super Natural Brows' },
+  /* Karina 30.10.2026: „Poproszę to zdjęcie zmienić na:” – 4. zdjęcie „Realne efekty” (brew i oko) */
+  snbEfekt01: { image: pick('efekt-snb-01'), ratio: '1 / 1', position: '50% 36%', caption: 'Super Natural Brows' },
   snbCollage: { image: pick('work-snb-01'), position: '50% 50%' },
   powderCollage: { image: pick('work-powder-01'), position: '0% 50%' },
   /* Karina 29.10.2026 (grupa „Strona”, zrzut sekcji „Subtelnie, naturalnie…”): „W tym miejscu proszę też

diff --git a/src/lib/pigments.js b/src/lib/pigments.js
@@ -264,9 +264,13 @@ export function formatPrice(grosze) {
 /* Sztuki w opakowaniu (kartridże sklepu, „20 szt.”) na trasach /en i /ru: en „pcs”, ru „шт.”. */
 const PCS = { en: 'pcs', ru: 'шт.' };
 
+/* Kolor wariantu (pędzel do brwi: „czarny” / „biały” – Karina 30.10.2026) w EN/RU. */
+const COLORS = { en: { czarny: 'black', biały: 'white' }, ru: { czarny: 'чёрный', biały: 'белый' } };
+
 /** „6 ml” z twardą spacją (etykiety w danych mają zwykłą); „20 szt.” → en „20 pcs”, ru „20 шт.”. */
 export function formatCapacity(label, lang = 'pl') {
   if (!label) return '';
+  if (COLORS[lang]?.[label]) return COLORS[lang][label];
   const s = String(label).replace(/\s+/g, NBSP);
   return PCS[lang] ? s.replace(/szt\.$/, PCS[lang]) : s;
 }

diff --git a/scripts/przygotuj-grafiki.py b/scripts/przygotuj-grafiki.py
@@ -128,8 +128,8 @@ NEW_PRODUCTS = {
     # nazwy żeli – klientka 26.10.2026: „ICE GEL – zielony, ICE GEL LIPS – różowy, ICE LTB GEL – matowy zielony”
     'product-ice-ltb-gel': '2026-10-29 at 22.29.58',  # ICE LTB GEL – zdjęcie od Kariny 29.10 (na białym tle)
     'product-ice-gel-lips': '23.05.37 (1)',         # ICE GEL LIPS – różowy „cooling gel for lips”
-    'product-glow-oil-pineapple': '23.05.37 (2)',
-    'product-glow-oil-strawberries': '23.05.38',
+    'product-glow-oil-pineapple': '2026-10-30 at 14.27.37',     # Karina 30.10 (grupa) – zdjęcie z opisem
+    'product-glow-oil-strawberries': '2026-10-30 at 14.27.17',  # Karina 30.10 (grupa) – zdjęcie z opisem
     'product-lampa-pierscieniowa': '23.05.38 (5)',  # lampa pierścieniowa na statywie
     'product-kartridze-satellite': '23.05.38 (6)',  # opakowanie kartridży SATELLITE
     # Zdjęcia od Kariny z 14.10.2026 (pełny znacznik daty – inna data niż NEW_PREFIX).
@@ -147,11 +147,18 @@ NEW_PRODUCTS = {
     # 26–27.10.2026 – Karina Lesiv (czat i grupa „Strona”)
     'product-as-princess-champagne-gold': '2026-10-26 at 12.39.26',
     'product-ice-gel': '2026-10-29 at 22.26.01',      # ICE GEL – turkusowa butelka (Karina 29.10: „Proszę dodać zdjęcie 1.Ice Gel”)
-    'product-glow-oil-coconut-chocolate': '2026-10-29 at 22.32.21',  # Karina 29.10: „Glow Oil Coconut And Chocolate - 125zł”
-    'product-laser-q-switch-ultra': '2026-10-29 at 22.44.04',        # Karina 29.10: „Laser Q-Switch Ultra”
+    'product-glow-oil-coconut-chocolate': '2026-10-30 at 14.26.51',  # Karina 30.10 – zdjęcie z opisem (wcześniej 29.10 22.32.21)
+    'product-laser-q-switch-ultra': '2026-10-31 at 14.14.58',        # Karina 31.10: „Proszę zmienić laser” (wcześniej 29.10 22.44.04)
     'product-pigmenty-supernatural': '2026-10-27 at 17.44.35',
-    'product-kartridze-flat-supernatural': '2026-10-27 at 17.45.41',
-    'product-sztuczna-skorka-do-cwiczen': '2026-10-27 at 17.46.23',
+    'product-kartridze-flat-supernatural': '2026-10-30 at 14.50.36',  # Karina 30.10: „Proszę zmienić zdjęcia kartridży.”
+    'product-sztuczna-skorka-do-cwiczen': '2026-10-30 at 14.49.09',   # Karina 30.10: „Proszę zmienić zdjęcia sztucznej skóry.”
+    # Dodatkowe zdjęcia w oknie produktu (galeria: product-<id>-2, -3…) – Karina 30.10.2026 (grupa „Strona”)
+    'product-sztuczna-skorka-do-cwiczen-2': '2026-10-30 at 14.49.10',
+    'product-kartridze-flat-supernatural-2': '2026-10-30 at 15.55.30',  # „Oraz dodać zdjęcie do kartridży BABUSHKINA ACADEMY.”
+    'product-pigmenty-supernatural-2': '2026-10-30 at 15.58.17 (24533)',  # „Do pigmentów Supernatural proszę dodać zdjęcie.”
+    'product-pigmenty-supernatural-3': '2026-10-30 at 15.58.17 (24534)',
+    'product-pigmenty-supernatural-4': '2026-10-30 at 15.58.17 (24535)',
+    'product-pedzel-do-brwi-2': '2026-10-30 at 15.59.22',  # „Proszę dodać jeszcze pędzelek w innym kolorze.” (jasny)
     'product-pedzel-do-brwi': '2026-10-27 at 17.52.03',
     'product-pilot-czerwony': '2026-10-27 at 17.52.35',
 }
@@ -161,6 +168,8 @@ PRODUCT_FIT_WHITE = {
     'product-pigmenty-supernatural', 'product-kartridze-flat-supernatural', 'product-set-harley-quinn-do-ust',
     'product-set-paradise-do-ust', 'product-ice-ltb-gel', 'product-glow-oil-coconut-chocolate', 'product-laser-q-switch-ultra',
     'product-sztuczna-skorka-do-cwiczen', 'product-pedzel-do-brwi', 'product-pilot-czerwony',
+    'product-glow-oil-pineapple', 'product-glow-oil-strawberries', 'product-sztuczna-skorka-do-cwiczen-2',
+    'product-pedzel-do-brwi-2',
 }
 # Plakaty kursów spoza listy GROUPS (po nazwie pliku): course-08 – harmonogram kursu
 # dla linergistek Super Natural Brows (Karina Lesiv, 26.10.2026: „harmonogram do kursu za 7 tysięcy”).
@@ -185,6 +194,7 @@ NEW_PHOTOS = {
     'kolaz-01': '2026-10-29 at 23.23.12',            # usta
     'kolaz-02': '2026-10-29 at 23.23.12 (24421)',    # brwi (rękawiczki)
     'kolaz-03': '2026-10-29 at 23.23.12 (24422)',    # brew z okiem
+    'efekt-snb-01': '2026-10-30 at 16.15.14',        # Karina 30.10: „Poproszę to zdjęcie zmienić na:” (4. zdjęcie „Realne efekty”)
 }
 # work-<technika>-NN: (plik, przycięcie (l, t, r, b) w ułamkach – bez doklejonej butelki)
 NEW_WORKS = {
